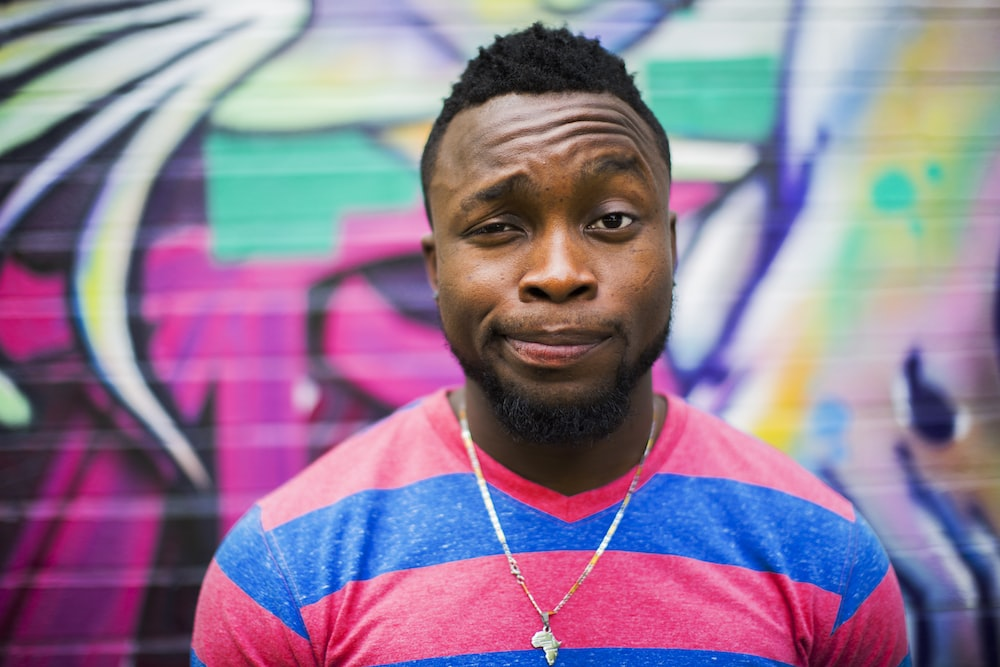
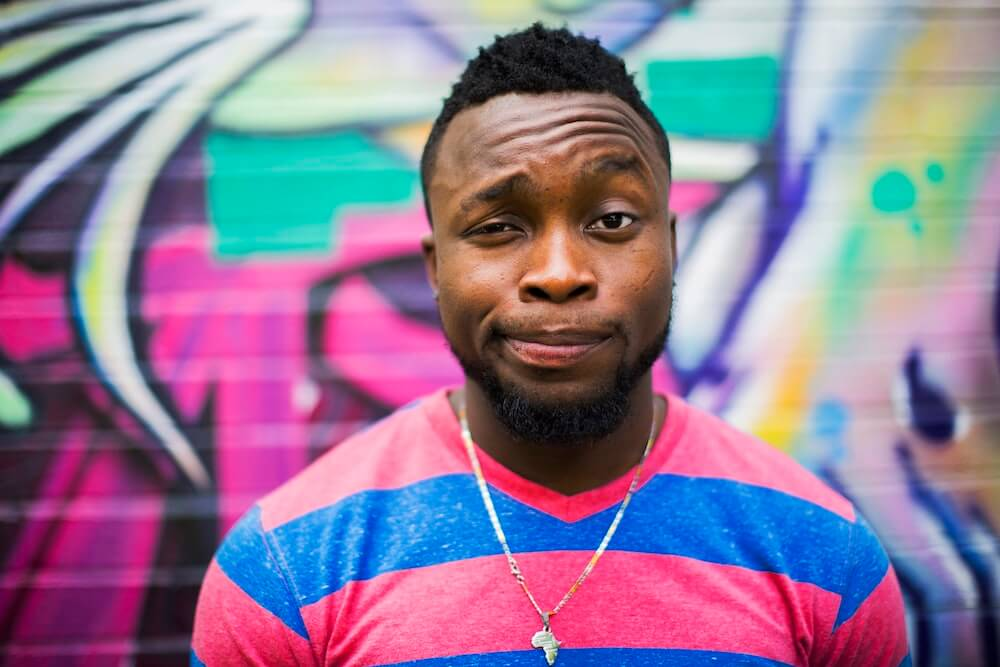
optimized images size, accomplished es modules, restructure js

diff --git a/src/styles/style.css b/src/styles/style.css
@@ -1,70 +1,70 @@
-@import url('https://fonts.googleapis.com/css2?family=Poppins:wght@400;500;700&display=swap');
+@import url("https://fonts.googleapis.com/css2?family=Poppins:wght@400;500;700&display=swap");
 
-*{
-    margin: 0;
-    padding: 0;
-    box-sizing: border-box;
-    list-style: none;
+* {
+  margin: 0;
+  padding: 0;
+  box-sizing: border-box;
+  list-style: none;
 }
 
-body{
-    width: 100%;
-    height: 100vh;
-    display: flex;
-    align-items: center;
-    font-family: "Poppins", sans-serif;
-    justify-content: center;
+body {
+  width: 100%;
+  height: 100vh;
+  display: flex;
+  align-items: center;
+  font-family: "Poppins", sans-serif;
+  justify-content: center;
 }
 
 .wrapper {
-    width: 380px;
-    background-color: red;
-    background: linear-gradient(#fbf8fd 0%, #f9edf1 100%);
-    padding: 1.5rem 2rem;
-    border-radius: 20px;
+  width: 380px;
+  background-color: red;
+  background: linear-gradient(#fbf8fd 0%, #f9edf1 100%);
+  padding: 1.5rem 2rem;
+  border-radius: 20px;
 }
 
-.contacts h2{
-    color: #373d3f;
-    border-bottom: 1px solid #ccc;
-    padding-bottom: 1rem;
+.contacts h2 {
+  color: #373d3f;
+  border-bottom: 1px solid #ccc;
+  padding-bottom: 1rem;
 }
 
 .contacts ul {
-    margin-top: 2rem;
+  margin-top: 2rem;
 }
 
-.contacts ul .person{
-    display: flex;
-    align-items: center;
-    gap: 25px;
-    margin-bottom: 1.5rem;
+.contacts ul .person {
+  display: flex;
+  align-items: center;
+  gap: 25px;
+  margin-bottom: 1.5rem;
 }
 
-.contacts ul .person img{
-    width: 55px;
-    border: 2px solid #ccc;
-    padding: 1px;
-    height: 55px;
-    border-radius: 50%;
-    object-fit: cover;
-    object-position: center;
+.contacts ul .person img {
+  width: 55px;
+  border: 2px solid #ccc;
+  padding: 1px;
+  height: 55px;
+  border-radius: 50%;
+  object-fit: cover;
+  object-position: center;
 }
 
-.contacts ul .person  .person-info span{
-    font-weight: 500;
-    display: inline-block;
-    font-size: 18px;
-    color: #3a3a3a;
+.contacts ul .person .person-info span {
+  font-weight: 500;
+  display: inline-block;
+  font-size: 18px;
+  color: #3a3a3a;
 }
 
 .person-info {
-    display: flex;
-    flex-direction: column;
-    gap: 4px;
+  display: flex;
+  flex-direction: column;
+  gap: 4px;
 }
 
-.contacts ul .person  .person-info .tel{
-    font-size: 14px;
-    color: #3a3a3a;
+.contacts ul .person .person-info .tel {
+  font-size: 14px;
+  color: #3a3a3a;
 }

diff --git a/src/js/app.js b/src/js/app.js
@@ -1,29 +1,40 @@
-const personContent = document.querySelector('.contacts ul');
+import contacts from "./modules/contactsList.js";
+import createNode from "./modules/createNode.js";
 
 function showPeople() {
-    contacts.map(person => {
-        const contact = document.createElement('li');
-        const img = document.createElement('img');
-        const personInfoDiv = document.createElement('div');
+  const personContent = document.querySelector(".contacts ul");
 
-        const personName = document.createElement('span');
-        const tel = document.createElement('span');
-
-        contact.classList.add('person');
-        personInfoDiv.classList.add('person-info');
-        personName.classList.add('name');
-        tel.classList.add('tel');
-
-        img.src = person.img;
-        personName.innerText = person.name;
-        tel.innerText = person.tel;
-
-        personInfoDiv.append(personName, tel);
-
-        contact.append(img, personInfoDiv);
-        personContent.appendChild(contact);
+  contacts.map((person) => {
+    const contact = createNode({
+      element: document.createElement("li"),
+      className: "person",
+      children: [
+        createNode({
+          element: document.createElement("img"),
+          props: {
+            src: person.img,
+          },
+        }),
+        createNode({
+          element: document.createElement("div"),
+          className: "person-info",
+          children: [
+            createNode({
+              element: document.createElement("span"),
+              className: "name",
+              innerText: person.name,
+            }),
+            createNode({
+              element: document.createElement("span"),
+              className: "tel",
+              innerText: person.tel,
+            }),
+          ],
+        }),
+      ],
     });
-
+    personContent.appendChild(contact);
+  });
 }
 
-showPeople(); 
+showPeople();

diff --git a/src/index.html b/src/index.html
@@ -4,19 +4,16 @@
     <meta charset="UTF-8" />
     <meta http-equiv="X-UA-Compatible" content="IE=edge" />
     <meta name="viewport" content="width=device-width, initial-scale=1.0" />
-    <link rel="stylesheet" href="styles/style.css">
-    <script src="js/contactsList.js" defer></script>
-    <script src="js/app.js" defer></script>
+    <link rel="stylesheet" href="styles/style.css" />
     <title>Contacts App</title>
   </head>
   <body>
     <div class="wrapper">
       <div class="contacts">
         <h2>All contacts</h2>
-        <ul>
-          
-        </ul>
+        <ul></ul>
       </div>
     </div>
+    <script type="module" src="js/app.js"></script>
   </body>
 </html>

diff --git a/src/js/modules/contactsList.js b/src/js/modules/contactsList.js
@@ -1,0 +1,24 @@
+const contacts = [
+  {
+    name: "Leos Adate",
+    img: "assets/images/person-1.jpg",
+    tel: "+1 505-644-0802",
+  },
+  {
+    name: "Ocia Gigri",
+    img: "assets/images/person-2.jpg",
+    tel: "+1 813-688-9510",
+  },
+  {
+    name: "Cicella Anders",
+    img: "assets/images/person-3.jpg",
+    tel: "+1 203-448-7916",
+  },
+  {
+    name: "Liona Balon",
+    img: "assets/images/person-4.jpg",
+    tel: "+1 412-632-3247",
+  },
+];
+
+export default contacts;

diff --git a/src/js/modules/createNode.js b/src/js/modules/createNode.js
@@ -1,0 +1,24 @@
+export default function createNode({
+  element,
+  children,
+  className,
+  innerText,
+  props,
+}) {
+  if (children) {
+    element.append(...children);
+  }
+  if (className) {
+    element.classList.add(className);
+  }
+  if (innerText) {
+    element.innerText = innerText;
+  }
+  if (props) {
+    Object.entries(props).forEach(([key, value]) => {
+      element.setAttribute(key, value);
+    });
+  }
+
+  return element;
+}
